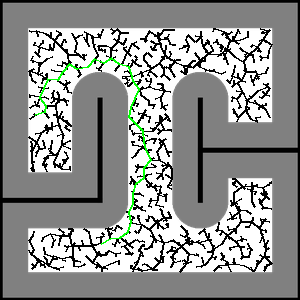
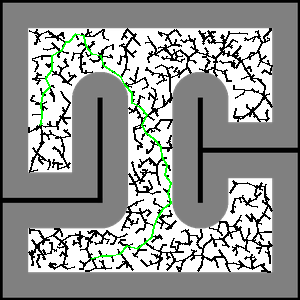
edit

Changed region(s): [[0.09, 0.09, 0.93, 0.93]]

diff --git a/finalproject.py b/finalproject.py
@@ -106,6 +106,8 @@ class Run:
             angle += 45
         self.servo.go_to(0)
 
+       
+
     def localize_self(self):
         pos = self.create.sim_get_position()
         x_actual = pos[0]
@@ -123,14 +125,16 @@ class Run:
             y_actual = pos[1]
             x, y, theta = self.pf.get_estimate()
 
+        self.take_measurements()
+
         x, y, theta = self.pf.get_estimate()
         self.odometry.x = x
         self.odometry.y = y
         self.odometry.theta = theta
 
         # Reset Encoders
-        self.create._leftEncoderCount = 0.0
-        self.create._rightEncoderCount = 0.0
+        #self.create._leftEncoderCount = 0.0
+        #self.create._rightEncoderCount = 0.0
 
 
 
